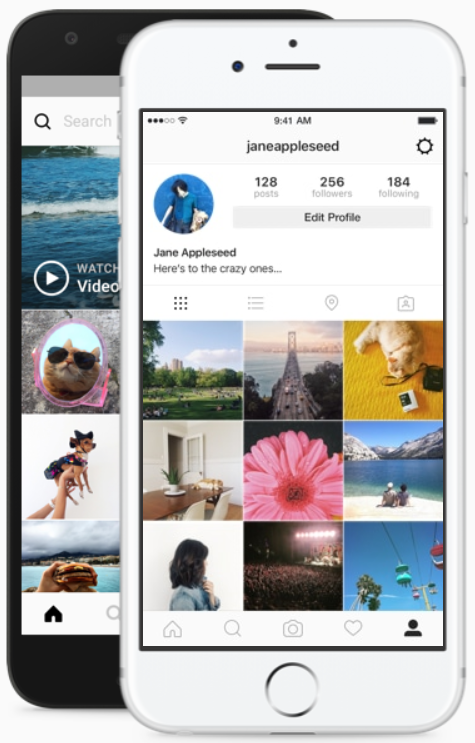
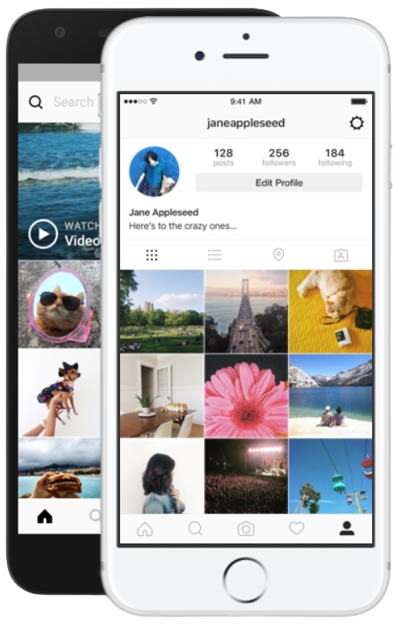
Add files via upload

diff --git a/pagina_inicial.html b/pagina_inicial.html
@@ -9,22 +9,22 @@
     </head>
     
     <body>
-        <header>
+      <header>
         <nav class="navbar">
-            <div class="nav-wrapper">
-                 <img src="./img_inicial/logo_instagram.png" alt="logo do instagram" class="logo">
-                 <input class="pesquisar" type="text" placeholder="  Pesquisar">
-            <div class="group-icons">
-                 <img class="icon" src="./img_inicial/home-icon.png" alt="home-icon">
-                 <img class="icon" src="./img_inicial/messenger-icon.png" alt="messenger-icon">
-                 <img class="icon" src="./img_inicial/mais.png" alt="mais-icon">
-                 <img class="icon" src="./img_inicial/explorar.png" alt="explorar-icon">
-                 <img class="icon" src="./img_inicial/like-icon.png" alt="like-icon">
-                 <img src="./img/foto.jpg" alt="" class="user-icon">
-        </div>
-        </div>
+         <div class="nav-wrapper">
+           <img src="./img_inicial/logo_instagram.png" alt="logo do instagram" class="logo">
+           <input class="pesquisar" type="text" placeholder="  Pesquisar">
+         <div class="group-icons">
+            <img class="icon" src="./img_inicial/home-icon.png" alt="home-icon">
+            <img class="icon" src="./img_inicial/messenger-icon.png" alt="messenger-icon">
+            <img class="icon" src="./img_inicial/mais.png" alt="mais-icon">
+            <img class="icon" src="./img_inicial/explorar.png" alt="explorar-icon">
+            <img class="icon" src="./img_inicial/like-icon.png" alt="like-icon">
+            <img src="./img/foto.jpg" alt="" class="user-icon">
+          </div>
+         </div>
         </nav>
-    </header>
+     </header>
         <section class="main">
             <div class="wrapper">
                 <div class="coluna-esquerda">
@@ -79,7 +79,107 @@
                         </div>
                     </div>
                     <div class="post">
-                        
+                        <div class="post-card">
+                            
+                            <div class="profile-pic-post">
+                                <div class="info">
+                                <img src="./img_inicial/cover1.jpg" alt="">
+                            </div>
+                            <p class="username-post">user_name1</p>
+                            </div>
+                            <img src="./img_inicial/post1.jpg" class="post-foto">
+                            <div class="group-icons-post">
+                                <img src="./img_inicial/like-icon.png" class="icon-post">
+                                <img src="./img_inicial/comentario.png" alt="" class="icon-post">
+                                <img src="./img_inicial/direct.png" alt="" class="icon-post">
+                            </div>
+                          
+                            <div class="profile-pic-post">  <div class="info">
+                                <img src="./img_inicial/cover2.jpg" alt="">
+                            </div>
+                            <p class="username-post">user_name2</p>
+                        </div>
+                            <img src="./img_inicial/post2.jpg" class="post-foto">
+                            <div class="group-icons-post">
+                                <img src="./img_inicial/like-icon.png" class="icon-post">
+                                <img src="./img_inicial/comentario.png" alt="" class="icon-post">
+                                <img src="./img_inicial/direct.png" alt="" class="icon-post">
+                            </div>
+                            
+                            <div class="profile-pic-post">
+                                <div class="info">
+                                <img src="./img_inicial/cover3.jpg" alt="">
+                            </div>
+                            <p class="username-post">user_name3</p>
+                            </div>
+                            <img src="./img_inicial/post3.jpg" class="post-foto">
+                            <div class="group-icons-post">
+                                <img src="./img_inicial/like-icon.png" class="icon-post">
+                                <img src="./img_inicial/comentario.png" alt="" class="icon-post">
+                                <img src="./img_inicial/direct.png" alt="" class="icon-post">
+                            </div>
+                            <div class="profile-pic-post">
+                                <div class="info">
+                                <img src="./img_inicial/cover4.jpg" alt="">
+                            </div>
+                            <p class="username-post">user_name4</p>
+                            </div>
+                            <img src="./img_inicial/post4.jpg" class="post-foto">
+                            <div class="group-icons-post">
+                                <img src="./img_inicial/like-icon.png" class="icon-post">
+                                <img src="./img_inicial/comentario.png" alt="" class="icon-post">
+                                <img src="./img_inicial/direct.png" alt="" class="icon-post">
+                            </div>
+                            <div class="profile-pic-post">
+                                <div class="info">
+                                <img src="./img_inicial/cover5.jpg" alt="">
+                            </div>
+                            <p class="username-post">user_name5</p>
+                            </div>
+                            <img src="./img_inicial/post5.jpg" class="post-foto">
+                            <div class="group-icons-post">
+                                <img src="./img_inicial/like-icon.png" class="icon-post">
+                                <img src="./img_inicial/comentario.png" alt="" class="icon-post">
+                                <img src="./img_inicial/direct.png" alt="" class="icon-post">
+                            </div>
+                            <div class="profile-pic-post">
+                                <div class="info">
+                                <img src="./img_inicial/cover6.jpg" alt="">
+                            </div>
+                            <p class="username-post">user_name6</p>
+                            </div>
+                            <img src="./img_inicial/post6.jpg" class="post-foto">
+                            <div class="group-icons-post">
+                                <img src="./img_inicial/like-icon.png" class="icon-post">
+                                <img src="./img_inicial/comentario.png" alt="" class="icon-post">
+                                <img src="./img_inicial/direct.png" alt="" class="icon-post">
+                            </div>
+                            <div class="profile-pic-post">
+                                <div class="info">
+                                <img src="./img_inicial/cover7.jpg" alt="">
+                            </div>
+                            <p class="username-post">user_name7</p>
+                            </div>
+                            <img src="./img_inicial/post7.jpg" class="post-foto">
+                            <div class="group-icons-post">
+                                <img src="./img_inicial/like-icon.png" class="icon-post">
+                                <img src="./img_inicial/comentario.png" alt="" class="icon-post">
+                                <img src="./img_inicial/direct.png" alt="" class="icon-post">
+                            </div>
+                            <div class="profile-pic-post">
+                                <div class="info">
+                                <img src="./img_inicial/cover8.jpg" alt="">
+                            </div>
+                            <p class="username-post">user_name8</p>
+                            </div>
+                            <img src="./img_inicial/post8.jpg" class="post-foto">
+                            <div class="group-icons-post">
+                                <img src="./img_inicial/like-icon.png" class="icon-post">
+                                <img src="./img_inicial/comentario.png" alt="" class="icon-post">
+                                <img src="./img_inicial/direct.png" alt="" class="icon-post">
+                            </div>
+                        </div>
+                    </div>
                     </div>
                 </div>
             <div class="coluna-direita">

diff --git a/style_inicial.css b/style_inicial.css
@@ -12,10 +12,11 @@
 }
 
 .body{
+    display: flex;
+    justify-content: center;
     width: 100%;
-    background-color: #fafafa;
+    background-color: rgb(226, 222, 222);
     position: relative;
-
 }
 
 .navbar{
@@ -24,7 +25,7 @@
     left: 0;
     width: 100%;
     height: 50px;
-    background-color: #fff;
+    background-color: rgb(255, 255, 255);
     border-bottom: 1px solid #dfdfdf;
 }
 
@@ -38,19 +39,20 @@
 }
 
 .logo{
-    height: 100%;
+    height: 60%;
+    margin-left: 30%;
     margin-top: 5px;
 }
 
 .pesquisar{
     position: relative;
-    left: 30%;
+    left: 20%;
     transform: translateX(-50%);
-    width: 200px;
-    height: 25px;
-    background: #fafafa;
+    width: 300px;
+    height: 30px;
+    background: rgb(245, 245, 245);
     border: 1px solid #dfdfdf;
-    border-radius: 2px;
+    border-radius: 2.3px;
     color: rgba(0, 0, 0, 0.5);
     text-align: center;
     text-transform: capitalize;
@@ -155,10 +157,106 @@
     color: rgba(0, 0, 0, 0.5);
 }
 
-.post{
-    width: 100%0;
-    height: 600px;
+.post-card{
+    display: inline-block;
+    width: 100%;
     background: #fff;
     border: 1px solid #dfdfdf;
     margin-top: 40px;
+}
+
+.profile-pic-post{
+    display: flex;
+    width: 70px;
+    height: 60px;
+    border-radius: 50%;
+    padding: 3px;
+}
+
+.profile-pic-post img{
+    padding: 1px;
+    width: 60px;
+    height: 60px;
+    object-fit: cover;
+    border-radius: 50%;
+    border: 2px solid #fff;
+}
+
+.info{
+    padding: 10px;
+}
+
+.post-foto{
+    padding-top: 20px;
+    height: 449px;
+    width: 598px;
+}
+
+.username-post{
+    flex-direction: column;
+    margin-top: 30px;
+    font-weight: bold;
+    width: 100%;
+    text-align: left;
+    font-size: 14px;
+    color: rgba(0, 0, 0);
+}
+
+.group-icons-post{
+    display: flex;
+    height: 30px;
+    margin: 3px;
+    left: 40%;
+    padding: 3px;
+}
+
+.icon-post{
+    height: 100%;
+    cursor: pointer;
+    margin: 0 5px;
+    display: flex;
+}
+
+
+
+
+
+
+
+
+
+
+
+/* Deixar a tela responsiva*/
+
+@media(max-width: 1024px){
+    .nav-wrapper{
+        width: 80%;
+    }
+
+    .post-card{
+        max-height: 700px;
+    }
+
+    .post-foto{
+        width: 100%;
+    }
+}
+
+@media(max-width: 650px){
+    body{
+        background-color: #ffffff;
+    }
+    .nav-wrapper{
+        width: 90%;
+    }
+
+    .post-card{
+        width: 100%;
+        max-height: 700px;
+    }
+
+    .coluna-esquerda{
+        border: 1px solid transparent;
+    }
 }

diff --git a/index.html b/index.html
@@ -9,8 +9,8 @@
     <body>
         <div class="instagram-wrapper">
         <div class="instagram-phone"> 
-            <img src="./img/instagram-celular.png" alt="celular" class="
-            celular1">
+            <img src="./img/celular2.png" alt="celular" class="
+            celular">
             
         </div>
         <div class="instagram-continue">
@@ -19,7 +19,7 @@
                 <div class="profile-photo">
                     <img src="./img/foto.jpg" alt="foto de perfil">
                 </div>
-                <a href="#" class="instagram-login">Continue como letiabreuc</a>
+                <a href="pagina_inicial.html" class="instagram-login">Continue como letiabreuc</a>
                 <a href="#" class="instagram-logout">Remover conta</a>
             </div>
             <div class="group">

diff --git a/style.css b/style.css
@@ -33,7 +33,8 @@ body{
 }
 
 .instagram-phone img{
-    height: 50rem;
+    height: 40rem;
+    margin: 100%;
 }
 
 .instagram-continue{
